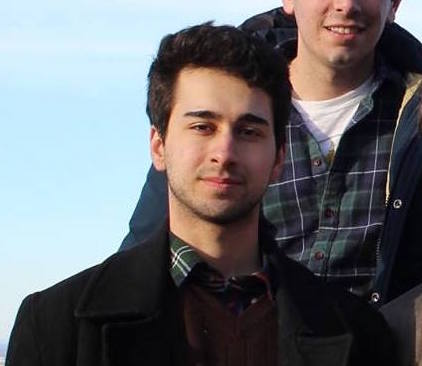
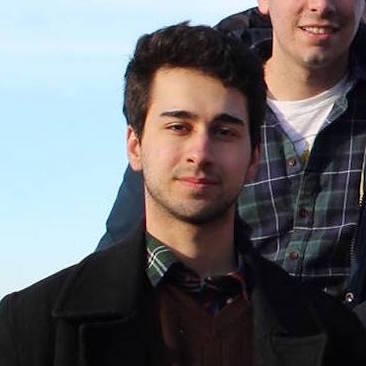
Made face profile a circular image
to cut out dave’s grin… :|

diff --git a/index.html b/index.html
@@ -74,7 +74,7 @@
 			<div class="media">
 			  <div class="pull-left media-top">
 				  <br> <br>
-			  <img class="media-img" src="Files/Face.jpg" alt="..." height="145" width="160"></img>   
+			  <img class="img-circle" src="Files/Face.jpg" alt="..." height="145" width="145"></img>   
 			  </div>
 			  <p>
 			  <div class="media-body">
